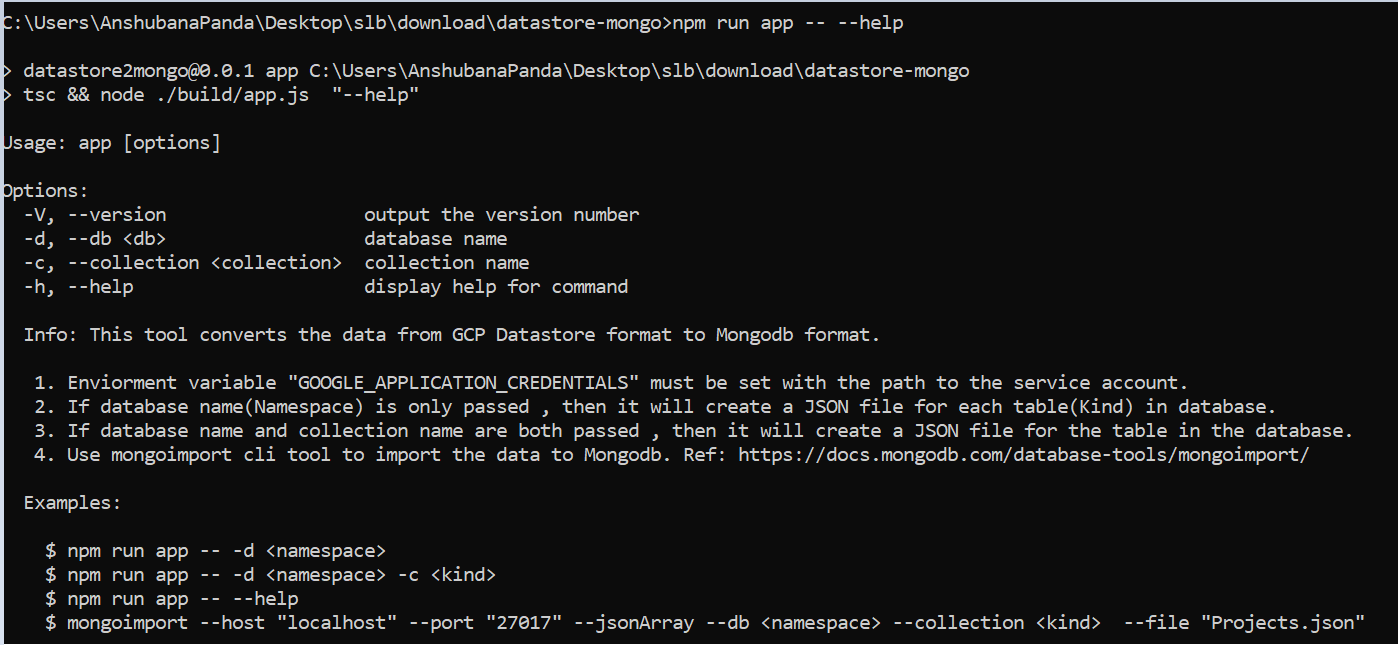
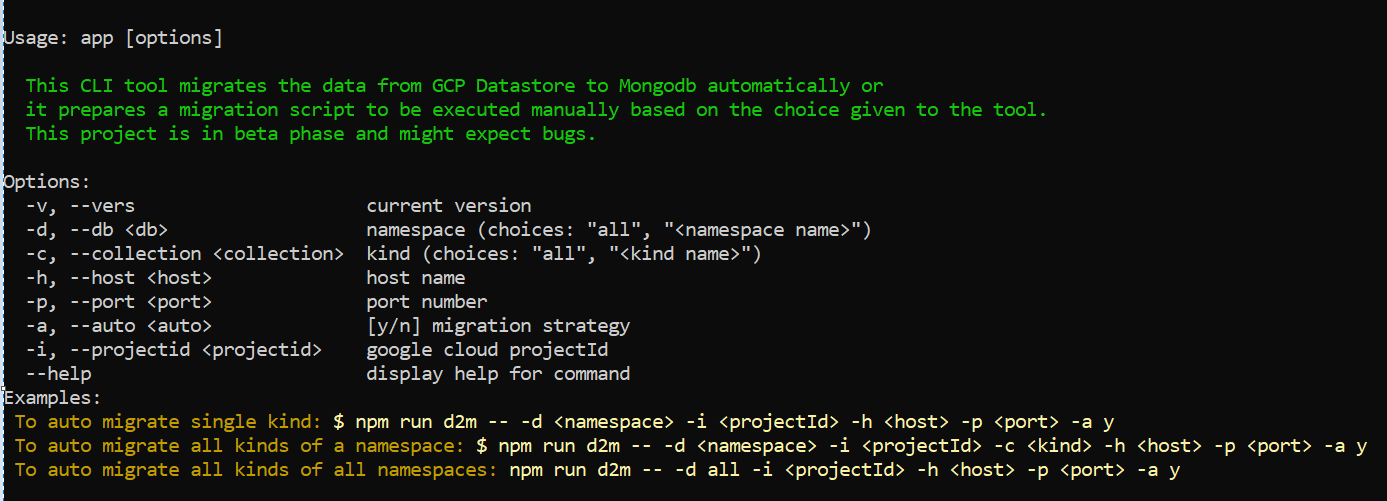
ok

Changed region(s): [[0.0, 0.0, 1.0, 1.0]]

diff --git a/app/app.ts b/app/app.ts
@@ -6,22 +6,13 @@ var colors = require('colors');
 
 const program = new Command();
 program.version('0.0.1', '-v, --vers', 'current version')
-.description('  This tool can migrate the data from GCP Datastore to Mongodb automatically.'+colors.brightBlue('\n  The app is in beta phase with version 0.0.1'))
+      .description(colors.brightGreen('  This CLI tool migrates the data from GCP Datastore to Mongodb automatically or \n  it prepares a migration script to be executed manually based on the choice given to the tool. \n  This project is in beta phase and might expect bugs.'))
       .on('--help', function () {
-            console.log(colors.brightYellow('Instuctions:'));
-            console.log('    a. Enviorment variable "GOOGLE_APPLICATION_CREDENTIALS" must be set with the path to the service account credential file.');
-            console.log('    b. Mongoimport tool must be in classpath to enable auto data migration. Ref: https://docs.mongodb.com/database-tools/mongoimport/.');
-            console.log('    c. If namespace is only provided as an argument then it will migrate all Kinds (collections) to mongodb');
-            console.log('    d. If namespace and kind are both passed as arguments then it will migrate given kind to mongodb.');
-            console.log(colors.brightYellow('Examples:'));
-            console.log('   $ npm run app -- -d <namespace> -h <host> -p <port>');
-            console.log('   $ npm run app -- -d <namespace> -c <kind> -h <host> -p <port>');
-            console.log('   $ npm run app -- --help');
-            console.log('   $ mongoimport --host localhost --port 27017 --jsonArray --db <namespace> --collection <kind>  --file <file.json> ');
+            console.log('Examples:');
+            console.log(colors.yellow(' To auto migrate single kind: ')+colors.brightYellow('$ npm run d2m -- -d <namespace> -i <projectId> -h <host> -p <port> -a y'));
+            console.log(colors.yellow(' To auto migrate all kinds of a namespace: ')+colors.brightYellow('$ npm run d2m -- -d <namespace> -i <projectId> -c <kind> -h <host> -p <port> -a y '));
+            console.log(colors.yellow(' To auto migrate all kinds of all namespaces: ')+colors.brightYellow('npm run d2m -- -d all -i <projectId> -h <host> -p <port> -a y'));
             console.log('');
-      })
-      .on('--op', function () {
-        console.log("exportACollection")
       })
       .option('-d, --db <db>', 'namespace (choices: "all", "<namespace name>") ')
       .option('-c, --collection <collection>', 'kind (choices: "all", "<kind name>")')
@@ -30,21 +21,20 @@ program.version('0.0.1', '-v, --vers', 'current version')
       .option('-a, --auto <auto>', '[y/n] migration strategy')
       .option('-i, --projectid <projectid>', 'google cloud projectId')
       .action((options) => {
-            if (options.db != null && options.collection != null && options.host != null && options.port != null && options.auto != null && options.projectid != null) {
+            if (options.db && options.collection && options.host  && options.port  && options.auto  && options.projectid ) {
                   api.exportACollection(options.db, options.collection, options.host, options.port, options.auto, options.projectid);
-            } else if (options.db != null && options.host != null && options.port != null && options.auto != null && options.collection === 'all' && options.projectid != null) {
+            } else if (options.db  && options.host  && options.port  && options.auto  && options.collection === 'all' && options.projectid ) {
                   api.exportAllDataOfaNamespace(options.db, options.host, options.port, options.auto, options.projectid);
-            } else if (options.host != null && options.port != null && options.auto != null && options.db === 'all' && options.projectid != null) {
+            } else if (options.host  && options.port  && options.auto && options.db === 'all' && options.projectid) {
                   api.exportAllDataOfAllNamespaces(options.host, options.port, options.auto, options.projectid);
             } else {
-                  console.log(colors.yellow("The manditory args. is/are missing! Please check help ('npm run d2m -- --help') for the info/examples."));
+                  console.log(colors.yellow("The manditory args. are missing! [Please check help ('npm run d2m -- --help') or refer https://github.com/anshubana/datastore2mongo#readme for instuctions] "));
             }
       })
 try {
       program.parse(process.argv);
 } catch (err) {
       if (err.code === 'commander.unknownOption') {
-            console.log();
             program.outputHelp();
       }
 }

diff --git a/app/migration.ts b/app/migration.ts
@@ -6,16 +6,15 @@ var colors = require('colors');
 fse.mkdir('migration', { recursive: true }, (err) => {
   if (err) console.log(err);
 });
-
+let flag:boolean=true;
+let scriptWriter;
 export async function exportACollection(dbname: string, collectionName: string, host: string, port: string, auto: string, projectId: string) {
-  let scriptWriter;
-  let flag:boolean=true;
   if (auto === 'n' && flag===true) {
      scriptWriter = fse.createWriteStream('migration/migration-script.sh', {
       flags: 'a'
     })
     scriptWriter.write('#!/bin/bash');
-    scriptWriter.write('');
+    scriptWriter.write('\n');
     flag=false;
   }
   let list: any = [];
@@ -34,7 +33,7 @@ export async function exportACollection(dbname: string, collectionName: string, 
         list.push(mongoEntity);
       })
       resolve(list);
-    });
+    })
   }).then(data => {
     let filepath: string = "migration/" + dbname + "/" + collectionName + ".json";
     let jdata = JSON.stringify(data);
@@ -48,6 +47,7 @@ export async function exportACollection(dbname: string, collectionName: string, 
       console.log(colors.brightGreen("Script is written for the kind: ") + colors.brightYellow(collectionName));
     }
   })
+  
 }
 export async function exportAllDataOfaNamespace(dbname: string, host: string, port: string, auto: string, projectId: string) {
   const datastore = new Datastore({
@@ -57,22 +57,20 @@ export async function exportAllDataOfaNamespace(dbname: string, host: string, po
   const [entities] = await datastore.runQuery(query);
   const kinds = entities.map(entity => entity[datastore.KEY].name);
   if (auto === 'y') {
-    console.log(colors.yellow("Auto migration is on !"))
+    console.log(colors.yellow("Auto migration is ON ! namespace: "+colors.brightYellow(dbname))+' '+ colors.yellow("started....."));
   }
   else {
-    console.log(colors.yellow("Auto migration is off ! Use the generated script file 'migration-script.sh' to migrate manually."));
+    console.log(colors.yellow("Auto migration is OFF ! namespace: "+colors.brightYellow(dbname))+' '+ colors.yellow("started....."));
   }
-  console.log(colors.yellow("Namespace: ") + colors.brightYellow(dbname));
-  console.log(colors.brightRed("started....."));
   kinds.forEach(kind => {
     if (!kind.startsWith("__")) {
-      exportACollection(dbname, kind, host, port, auto, projectId);
+      exportACollection(dbname, kind, host, port, auto, projectId)
     }
   });
 }
 
 export async function exportAllDataOfAllNamespaces(host: string, port: string, auto: string, projectId: string) {
-  console.log(colors.brightRed("Migration of all namespaces started for projectId '" + projectId + "'"));
+  console.log(colors.brightRed("Migration of all namespaces started for the projectId '" + colors.brightYellow(projectId) + "'"));
   const datastore = new Datastore({
     projectId: projectId,
   });
